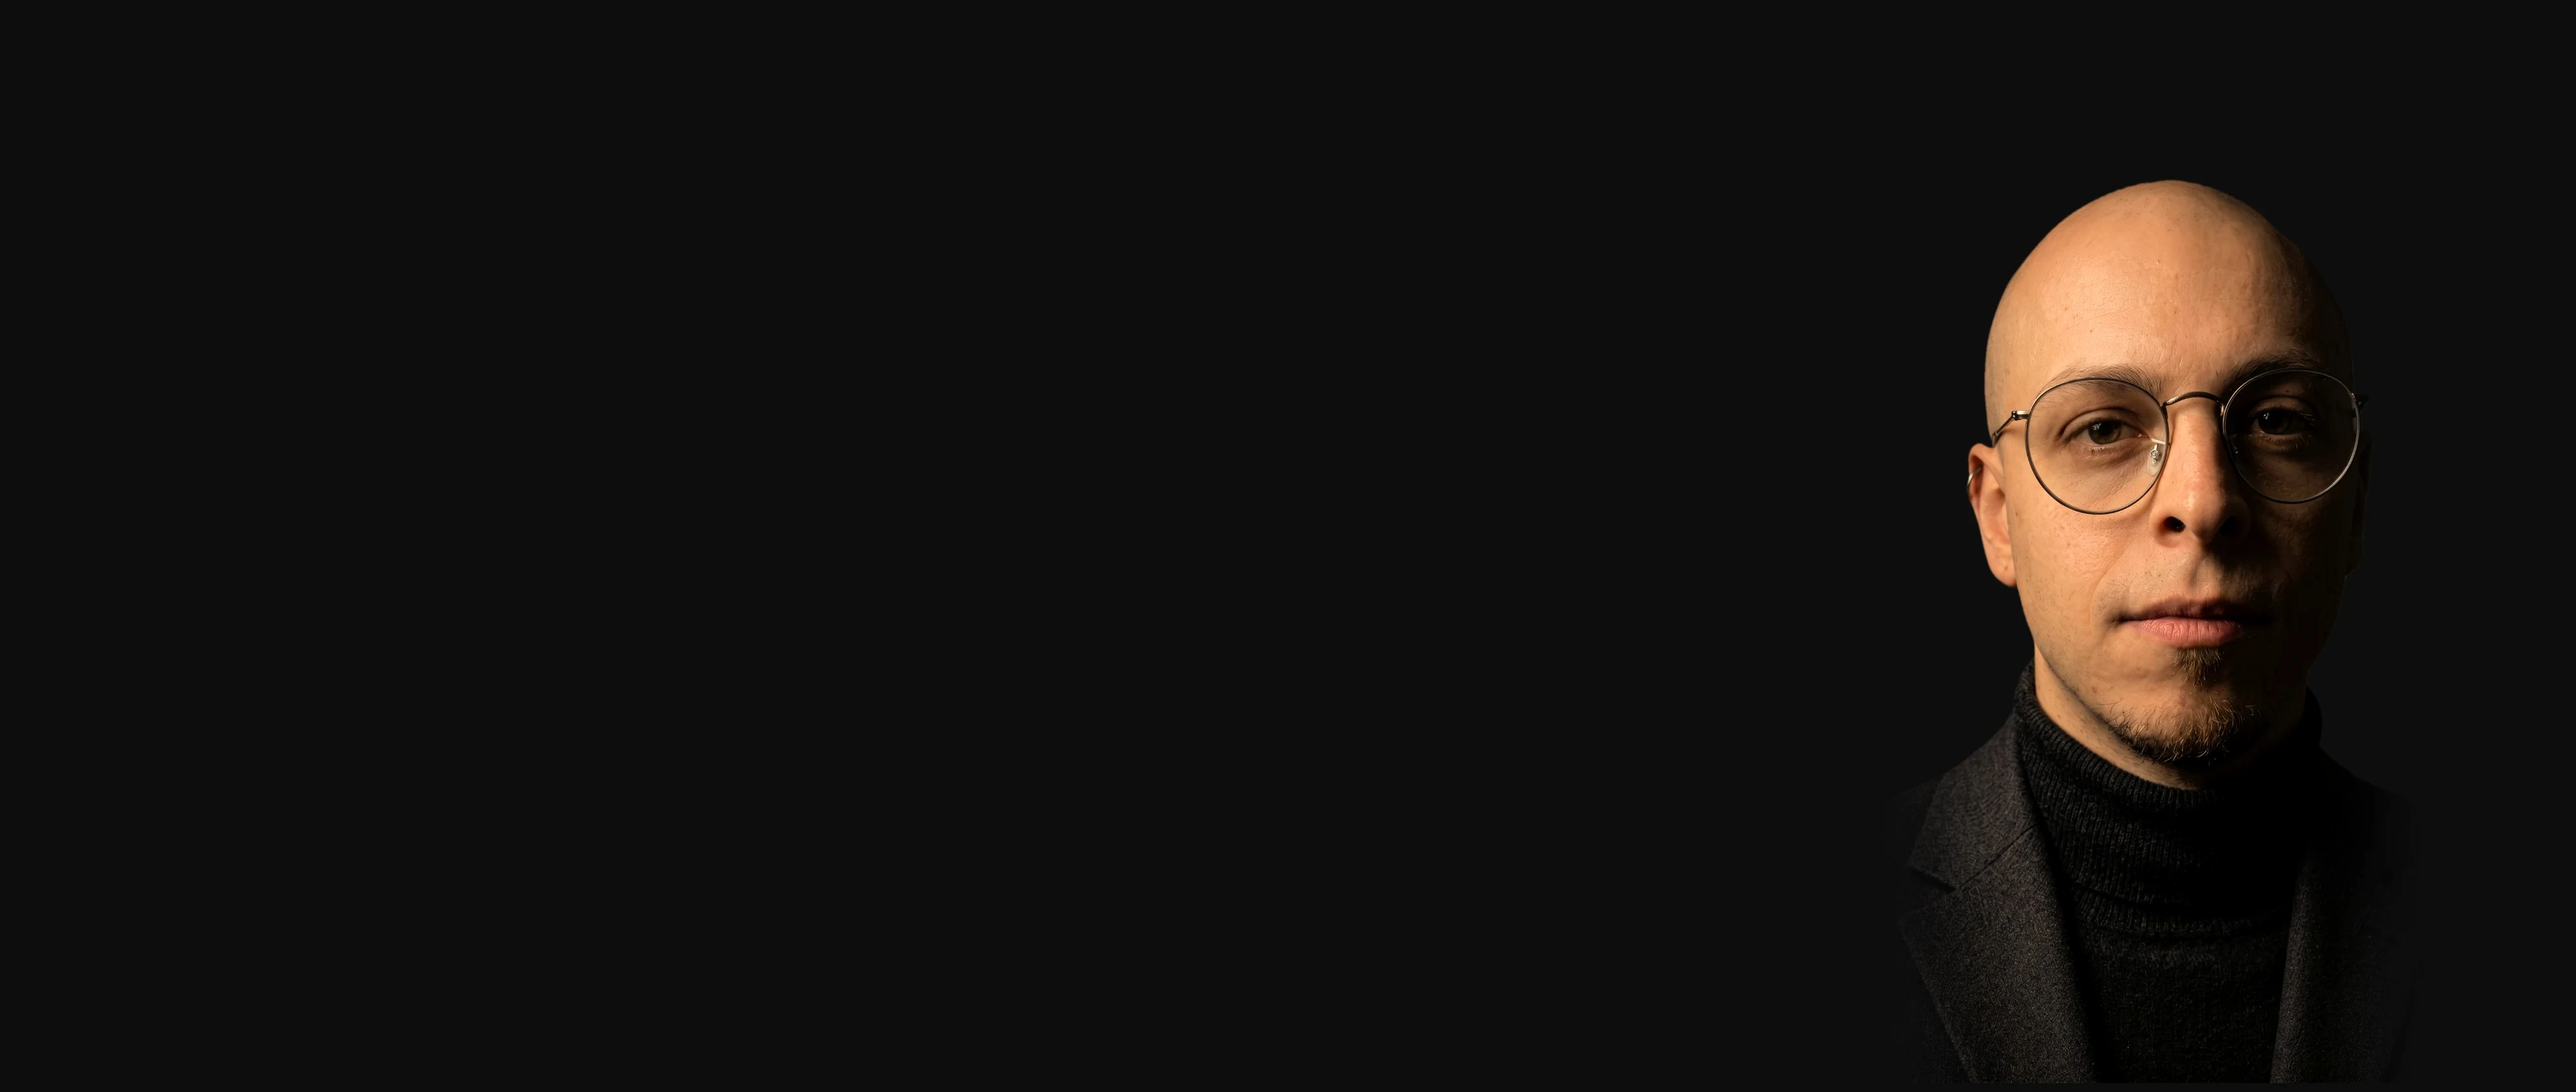
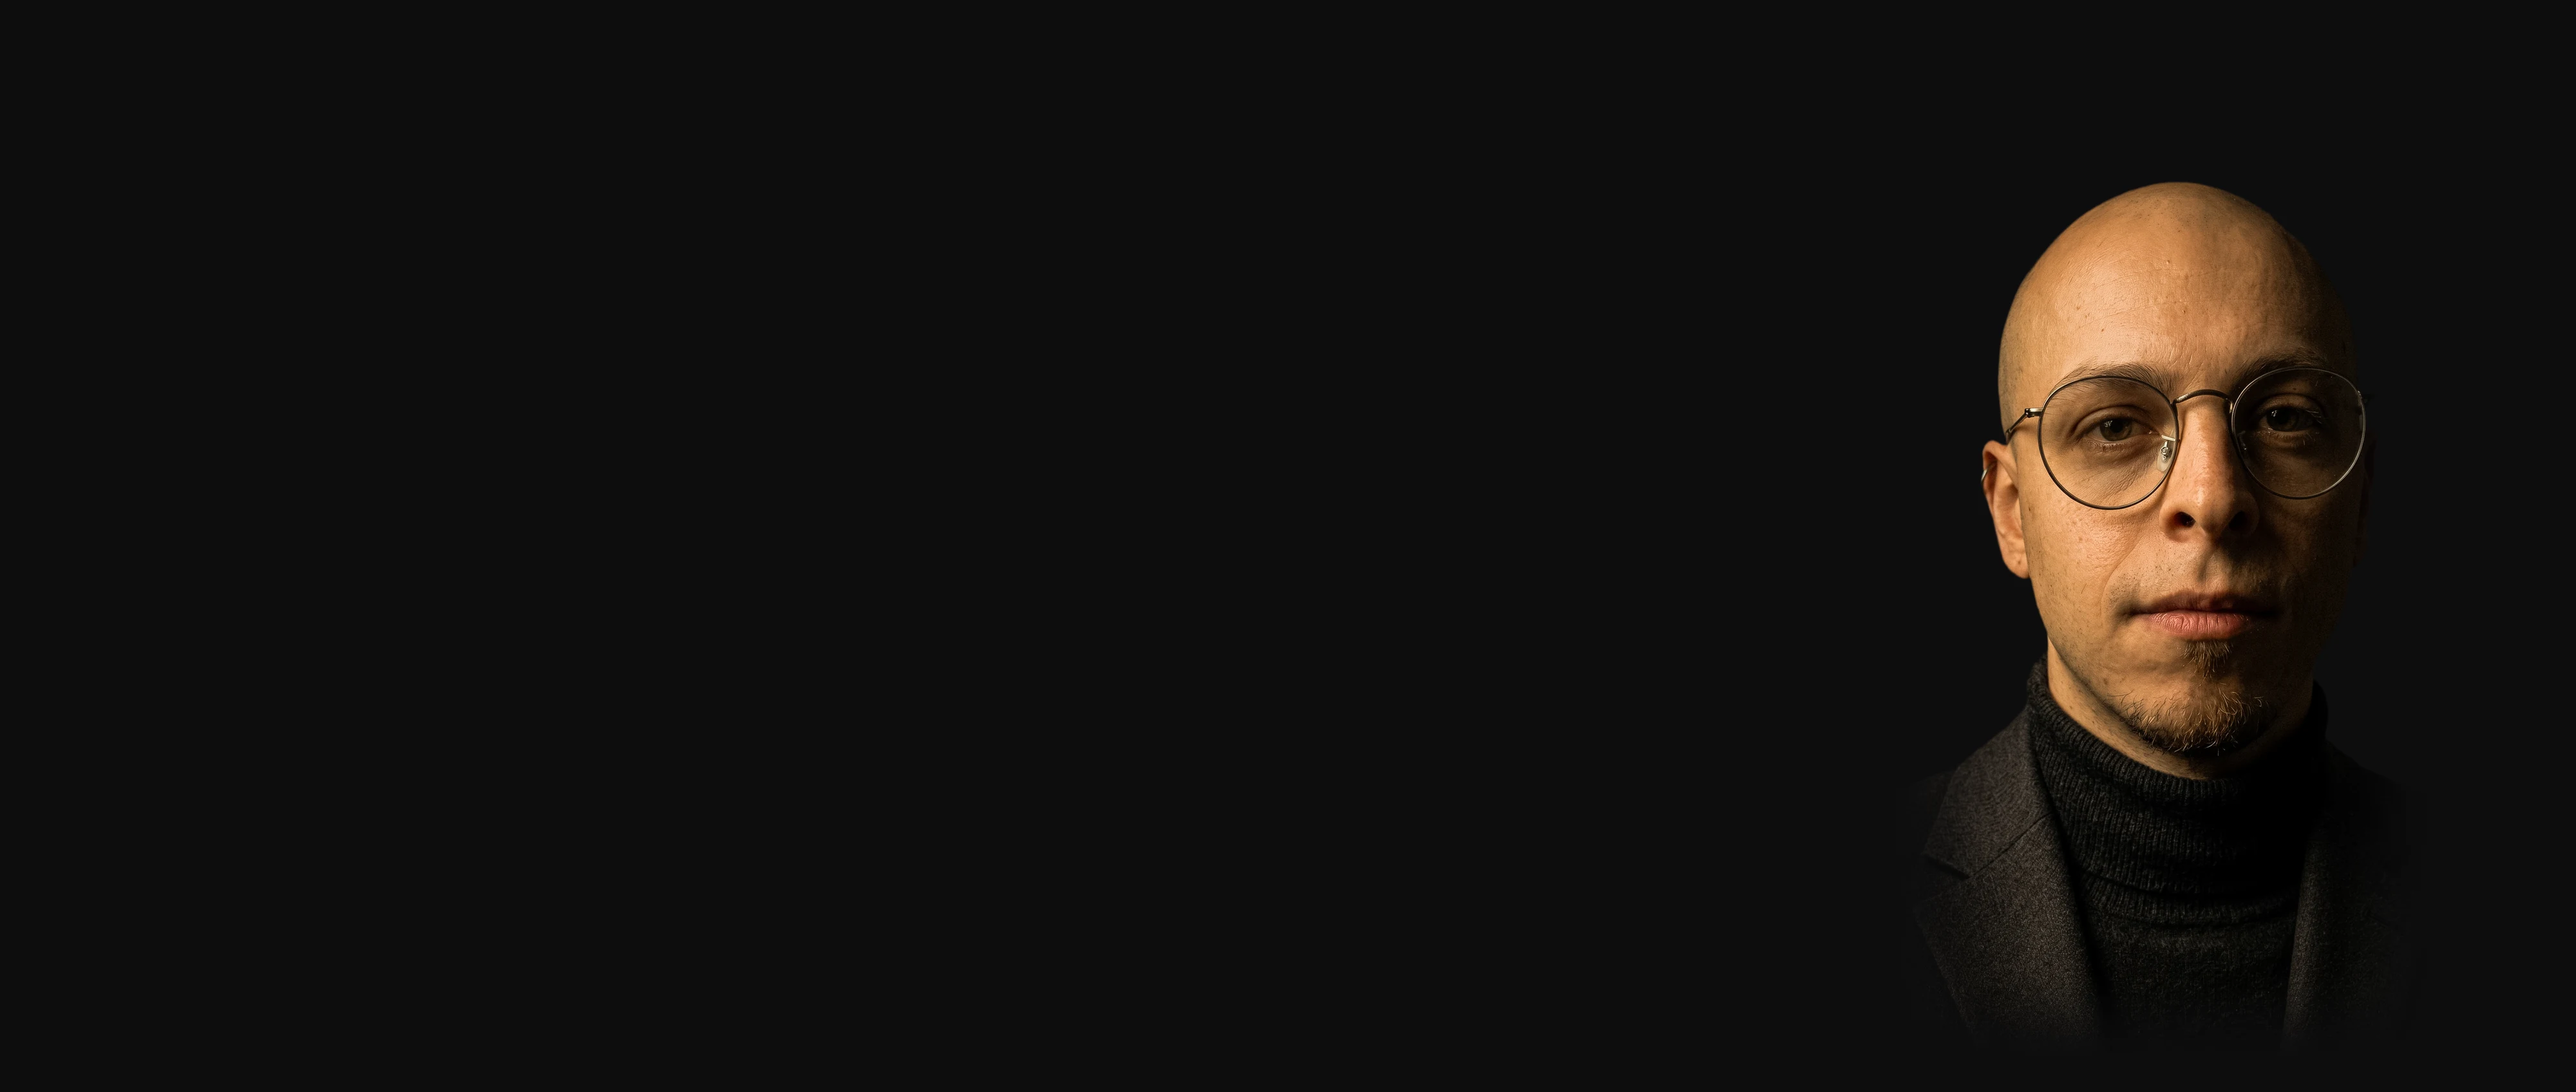
Home: nuovo ritratto scontornato, con colori naturali
Claude-Session: https://claude.ai/code/session_0117AcoAoRNxCeiVuVm8eKGz

Changed region(s): [[0.75, 0.1562, 0.9062, 1.0]]

diff --git a/index.html b/index.html
@@ -103,9 +103,9 @@
     <div class="hero-photo-frame">
       <div class="hero-entry"><span class="hero-entry-name" aria-hidden="true">Nicolò Forcolin</span><a class="scroll-btn" href="#hero-name"><span class="visually-hidden" data-i18n="scroll_btn">Entra nel sito</span><span class="entry-mark" aria-hidden="true"><span class="entry-line"></span><span class="entry-dot"></span></span></a></div>
       <picture>
-        <source media="(max-width:700px)" srcset="photo-mobile.webp?v=30" type="image/webp">
-        <source srcset="photo.webp?v=30" type="image/webp">
-        <img class="hero-portrait" id="avatarPhoto" src="photo.webp?v=30" alt="Nicolò Forcolin" width="4000" height="1696" fetchpriority="high">
+        <source media="(max-width:700px)" srcset="photo-mobile.webp?v=31" type="image/webp">
+        <source srcset="photo.webp?v=31" type="image/webp">
+        <img class="hero-portrait" id="avatarPhoto" src="photo.webp?v=31" alt="Nicolò Forcolin" width="4000" height="1696" fetchpriority="high">
       </picture>
     </div>
   </div>

diff --git a/tests/site-regression.test.js b/tests/site-regression.test.js
@@ -70,8 +70,8 @@ assert(home.includes('id="heroIntro"'), 'Hero intro paragraph missing');
 for (const language of ['it', 'en']) assert(dictionaries[language].includes('hero_intro:'), language + ': hero intro missing');
 assert(home.includes('data-i18n="skip_to_content"'), 'Skip link must be translated');
 assert(home.includes('href="ai-in-locale.html"') && home.includes('class="hero-link"'), 'Hero links must reach the project pages');
-assert(home.includes('srcset="photo.webp?v=30"'), 'New portrait must be displayed');
-assert(home.includes('srcset="photo-mobile.webp?v=30"'), 'Mobile portrait crop must be displayed');
+assert(home.includes('srcset="photo.webp?v=31"'), 'New portrait must be displayed');
+assert(home.includes('srcset="photo-mobile.webp?v=31"'), 'Mobile portrait crop must be displayed');
 assert(!home.includes('class="info-dialog"'), 'Project dialogs were replaced by pages');
 
 assert(read('rag-aziendale.html').includes('data-i18n="c1_summary"'), 'RAG summary must remain');
